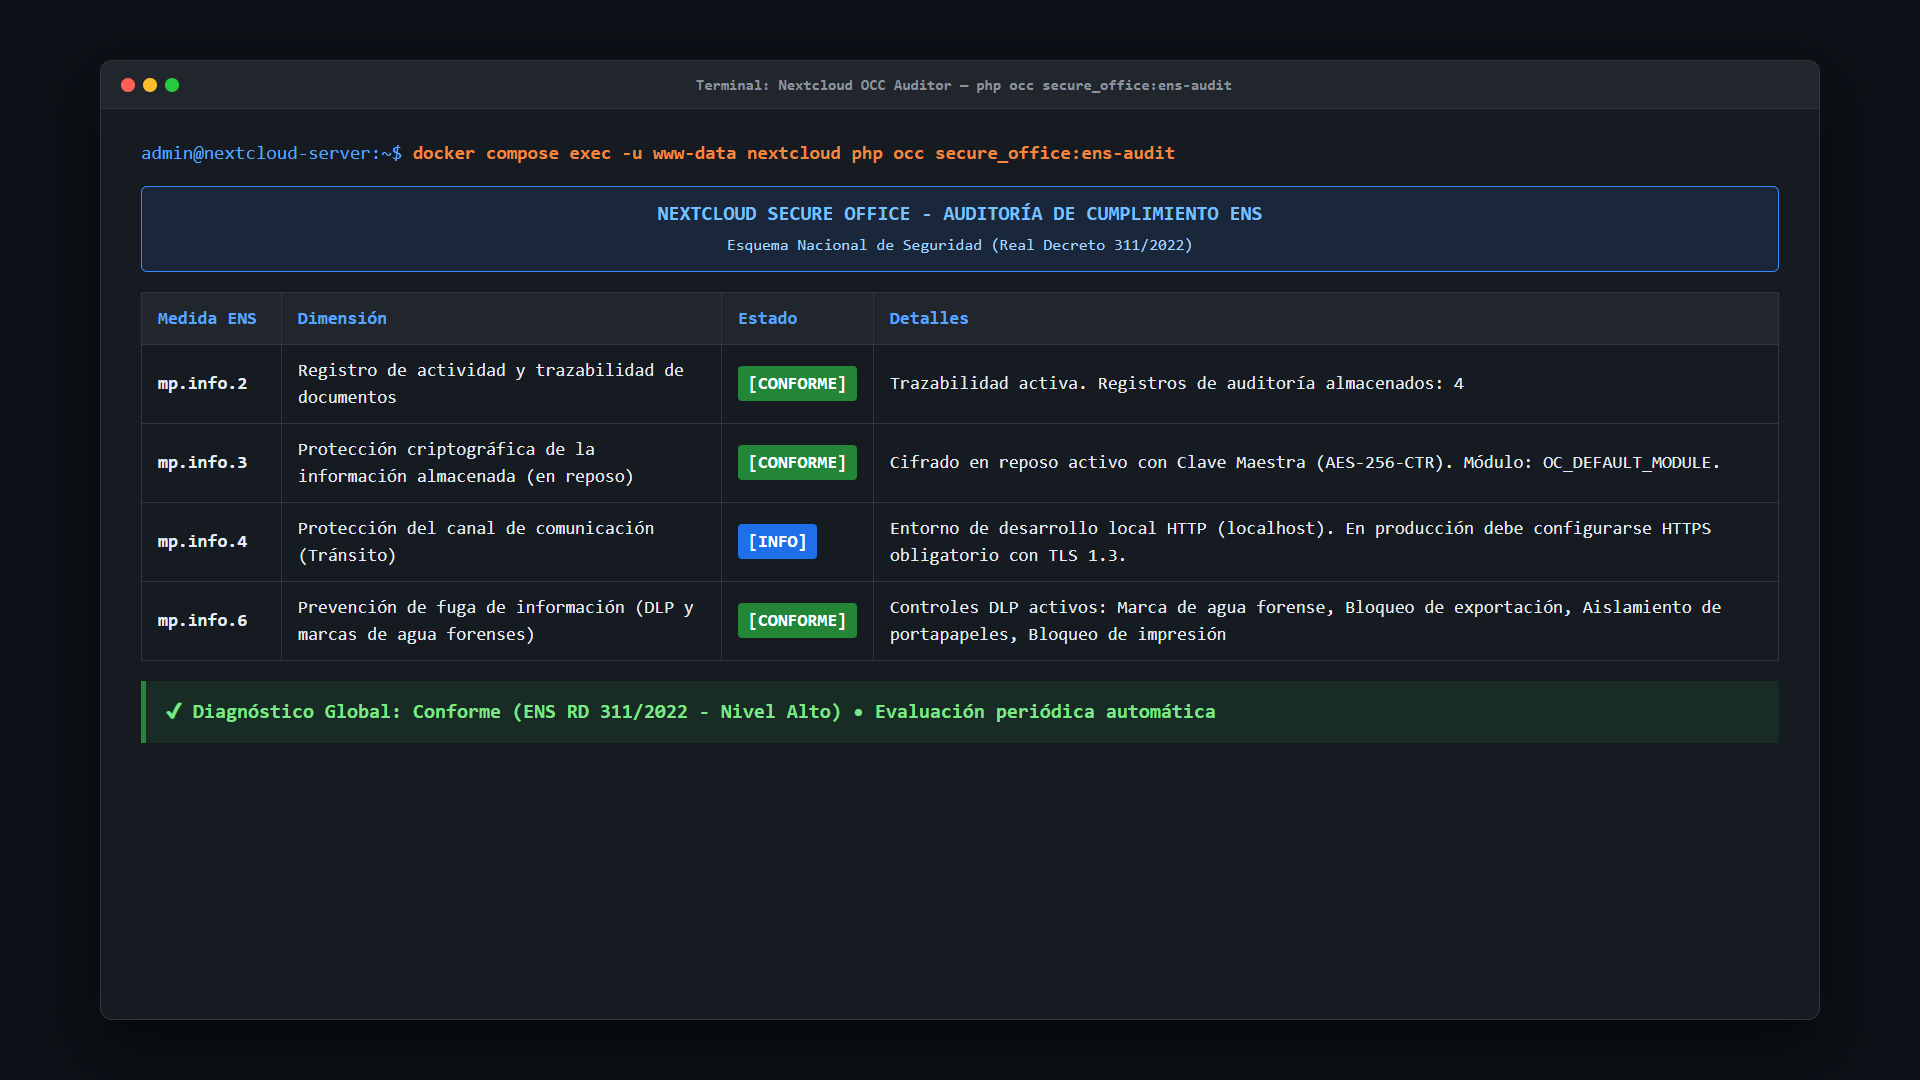
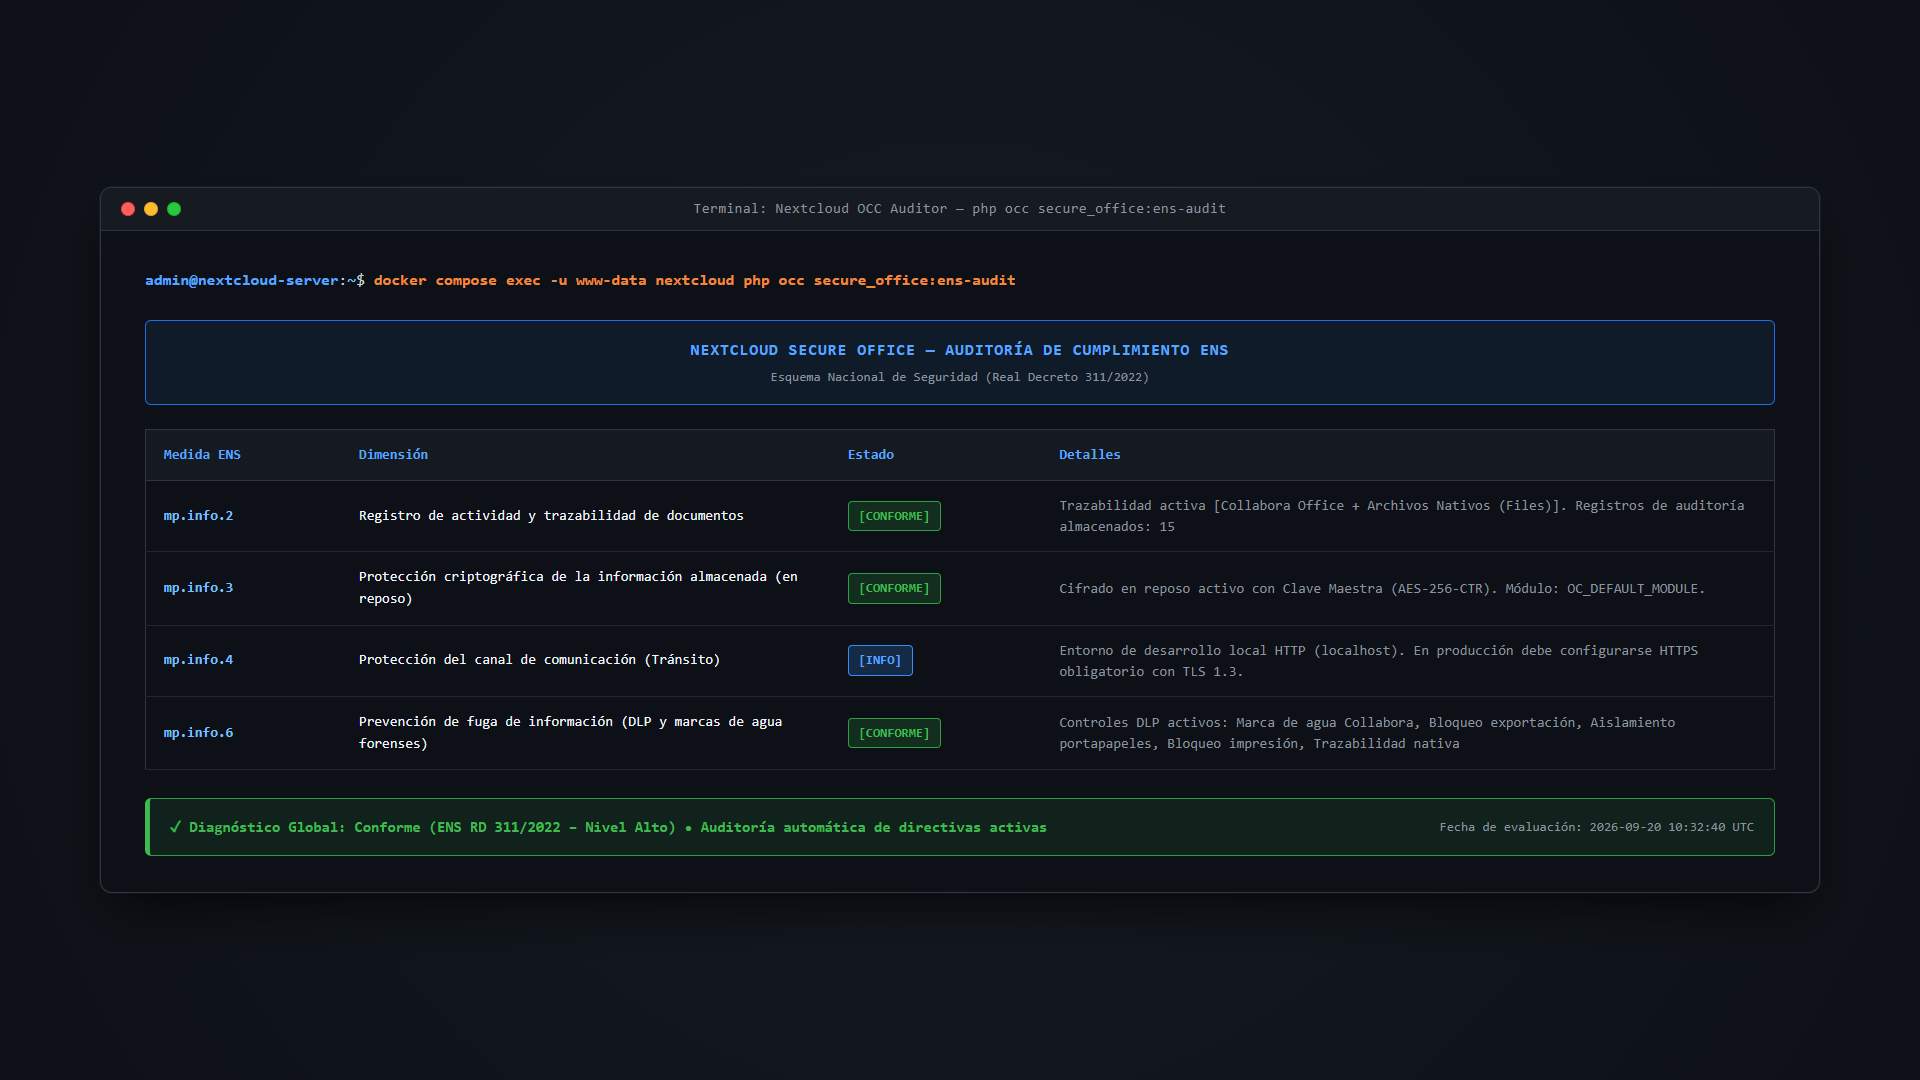
chore: update screenshots for modular native files support and bump to v0.3.1

diff --git a/templates/admin.php b/templates/admin.php
@@ -71,6 +71,7 @@ $badgeColor = match ($overallStatus) {
 
     <!-- Formulario de Configuración de Directivas -->
     <div style="background:#fff; border:1px solid #e2e8f0; border-radius:8px; padding:20px; margin-bottom:24px;">
+        <h3 style="margin-top:0; margin-bottom:16px;">Directivas de Seguridad y DLP (Collabora Office &amp; Archivos Nativos)</h3>
         <form id="secure-office-settings-form" onsubmit="return saveSecureOfficeSettings(event)">
             
             <!-- Clasificación ENS Común -->
